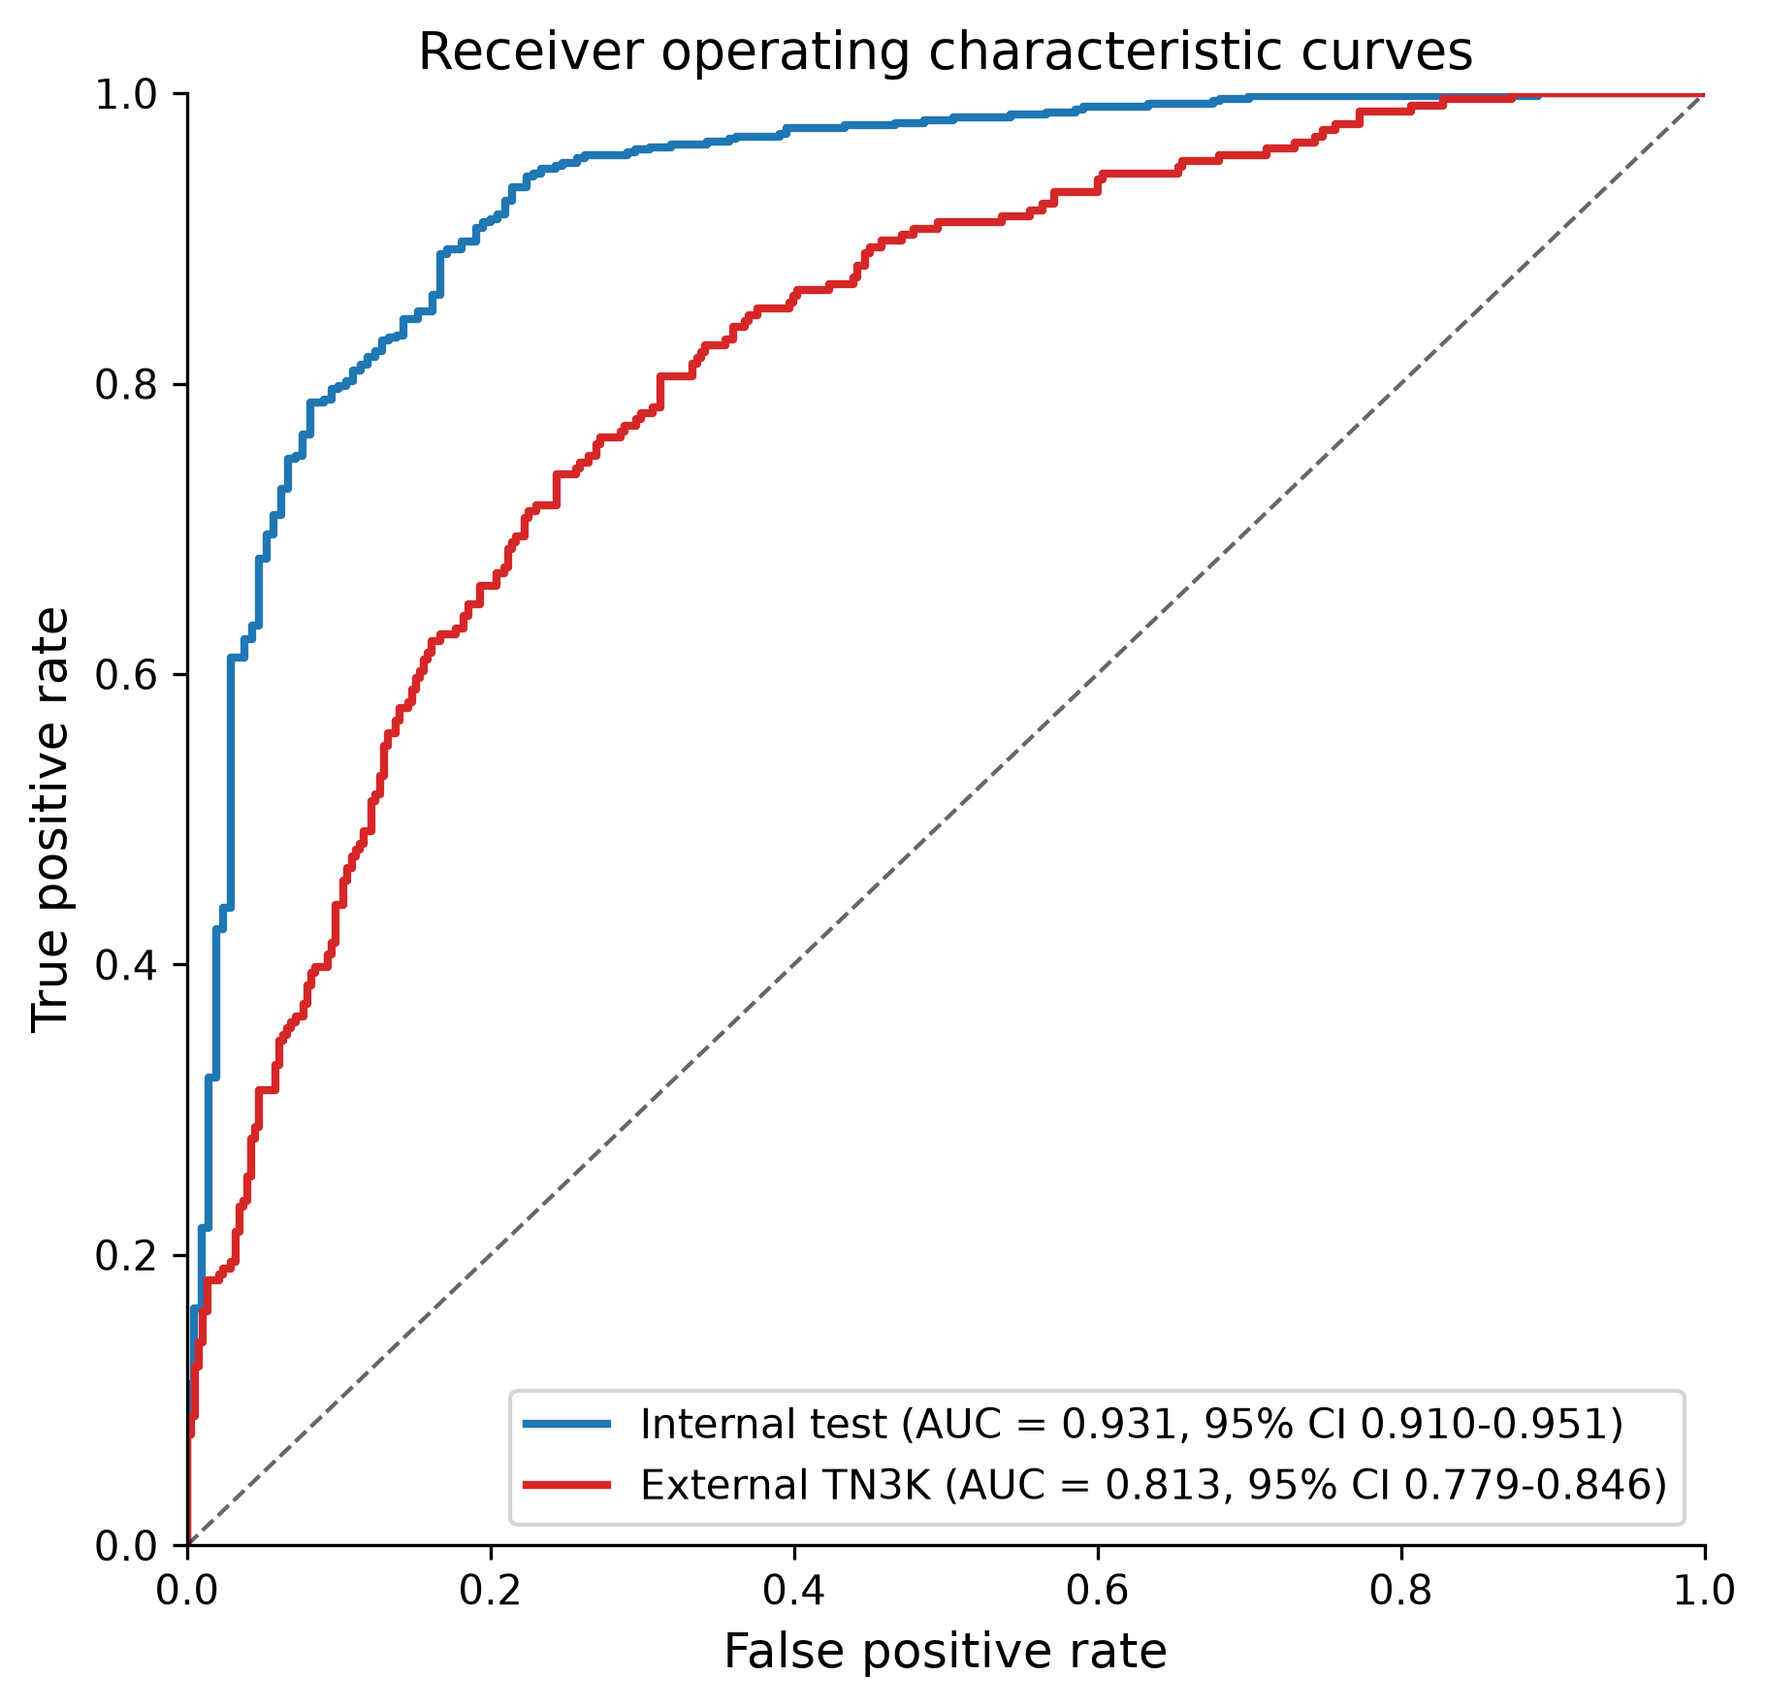
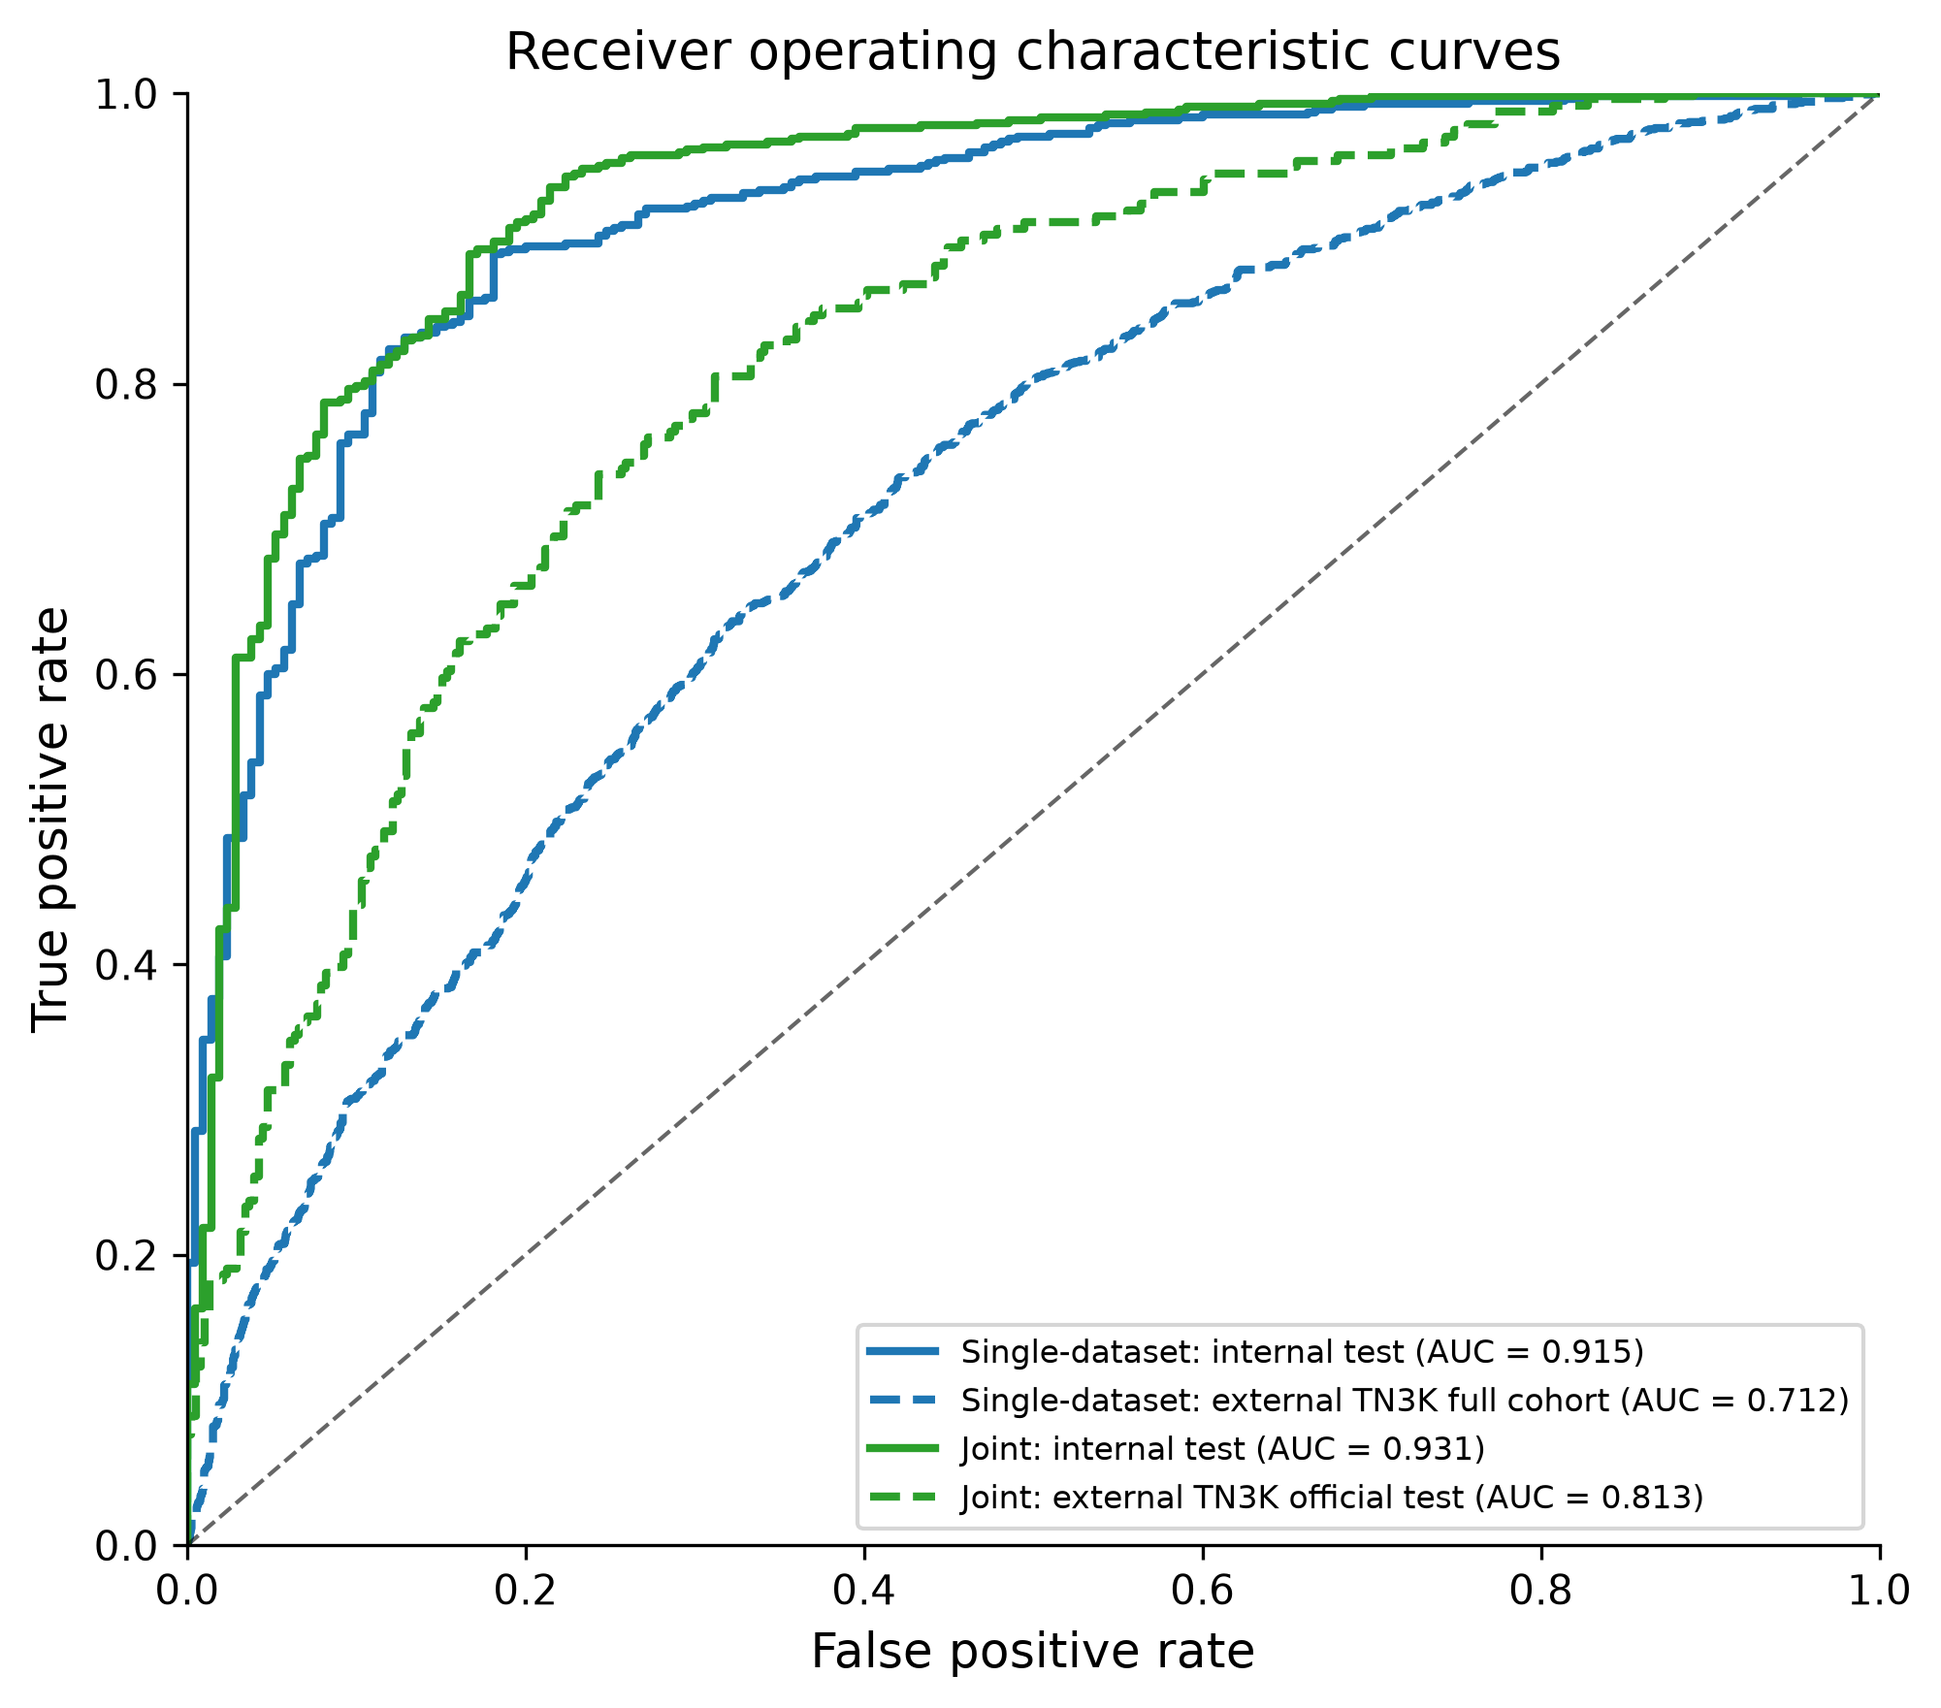
Add single-dataset full-TN3K ROC curve to Fig 2 and single-vs-joint external DCA to Fig 3; report fixed-0.5 net benefit (0.062->0.129 on TN3K official test)

diff --git a/paper/scripts/plot_figures.py b/paper/scripts/plot_figures.py
@@ -98,35 +98,49 @@ def dca_refs(pt, pos_rate):
 
 def main():
     device = get_device()
-    # Joint 模型（TN5000+TN3K，H1 修复后重跑 2026-08-10）
-    # 注：image/best.pt 是 ThyroidXL image-only（fig5-7/Table 3 用），joint 模型在备份目录
-    weights = PROJ / "checkpoints" / "thyroid" / "image_backup" / "best_joint_20260810_fixed.pt"
-    model = load_model(weights).to(device)
-    print("model loaded")
+    # Single-dataset (TN5000-only) and joint (TN5000 + TN3K train) models, seed 42
+    single_weights = PROJ / "checkpoints" / "thyroid" / "single_tn3k_eval" / "best.pt"
+    joint_weights = PROJ / "checkpoints" / "thyroid" / "_pre_seedretrain_backup" / "best_joint_seed42_fixed.pt"
+    single = load_model(single_weights).to(device)
+    joint = load_model(joint_weights).to(device)
+    print("models loaded")
 
     ds_in = ThyroidDataset(str(PROJ / "data" / "thyroid_tn5000test"), split="test",
                            image_size=224, mock=False, split_by_group=True, seed=42)
-    ds_ext = ThyroidDataset(str(PROJ / "data" / "thyroid_tn3ktest"), split="test",
-                            image_size=224, mock=False, split_by_group=True, seed=42)
-    p_in, y_in = predict(model, ds_in, device)
-    p_ext, y_ext = predict(model, ds_ext, device)
-    print(f"internal n={len(y_in)} (pos {y_in.mean():.3f}), external n={len(y_ext)} (pos {y_ext.mean():.3f})")
+    ds_t3k_test = ThyroidDataset(str(PROJ / "data" / "thyroid_tn3ktest"), split="test",
+                                 image_size=224, mock=False, split_by_group=True, seed=42)
+    ds_t3k_full = ThyroidDataset(str(PROJ / "data" / "thyroid" / "tn3k"), split="all",
+                                 image_size=224, mock=False, split_by_group=True, seed=42)
+    p_s_in, y_s_in = predict(single, ds_in, device)
+    p_s_ext, y_s_ext = predict(single, ds_t3k_test, device)
+    p_s_full, y_s_full = predict(single, ds_t3k_full, device)
+    p_j_in, y_j_in = predict(joint, ds_in, device)
+    p_j_ext, y_j_ext = predict(joint, ds_t3k_test, device)
+    print(f"single: internal n={len(y_s_in)} (pos {y_s_in.mean():.3f}), "
+          f"TN3K official n={len(y_s_ext)} (pos {y_s_ext.mean():.3f}), "
+          f"TN3K full n={len(y_s_full)} (pos {y_s_full.mean():.3f})")
+    print(f"joint:  internal n={len(y_j_in)} (pos {y_j_in.mean():.3f}), "
+          f"TN3K official n={len(y_j_ext)} (pos {y_j_ext.mean():.3f})")
 
-    # ---- Fig 2: ROC overlay ----
-    fpr1, tpr1, _ = roc_curve(y_in, p_in)
-    auc1 = sk_auc(fpr1, tpr1)
-    fpr2, tpr2, _ = roc_curve(y_ext, p_ext)
-    auc2 = sk_auc(fpr2, tpr2)
-    fig, ax = plt.subplots(figsize=(6.2, 6))
-    ax.plot(fpr1, tpr1, lw=2, color="#1f77b4",
-            label=f"Internal test (AUC = {auc1:.3f}, 95% CI 0.910-0.951)")
-    ax.plot(fpr2, tpr2, lw=2, color="#d62728",
-            label=f"External TN3K (AUC = {auc2:.3f}, 95% CI 0.779-0.846)")
+    # ---- Fig 2: ROC overlay (domain-shift drop + joint recovery) ----
+    fpr_si, tpr_si, _ = roc_curve(y_s_in, p_s_in)
+    fpr_sf, tpr_sf, _ = roc_curve(y_s_full, p_s_full)
+    fpr_ji, tpr_ji, _ = roc_curve(y_j_in, p_j_in)
+    fpr_je, tpr_je, _ = roc_curve(y_j_ext, p_j_ext)
+    fig, ax = plt.subplots(figsize=(6.8, 6))
+    ax.plot(fpr_si, tpr_si, lw=2, color="#1f77b4",
+            label="Single-dataset: internal test (AUC = 0.915)")
+    ax.plot(fpr_sf, tpr_sf, lw=2, ls="--", color="#1f77b4",
+            label="Single-dataset: external TN3K full cohort (AUC = 0.712)")
+    ax.plot(fpr_ji, tpr_ji, lw=2, color="#2ca02c",
+            label="Joint: internal test (AUC = 0.931)")
+    ax.plot(fpr_je, tpr_je, lw=2, ls="--", color="#2ca02c",
+            label="Joint: external TN3K official test (AUC = 0.813)")
     ax.plot([0, 1], [0, 1], "k--", lw=1, alpha=0.6)
     ax.set_xlabel("False positive rate", fontsize=12)
     ax.set_ylabel("True positive rate", fontsize=12)
     ax.set_title("Receiver operating characteristic curves", fontsize=13)
-    ax.legend(loc="lower right", fontsize=10)
+    ax.legend(loc="lower right", fontsize=8)
     ax.set_xlim(0, 1)
     ax.set_ylim(0, 1)
     fig.tight_layout()
@@ -134,9 +148,9 @@ def main():
     plt.close(fig)
     print("fig2 saved")
 
-    # ---- Fig 3: calibration (a) + DCA (b) 合成图 ----
-    mp1, my1, ece1 = reliability_curve(y_in, p_in)
-    mp2, my2, ece2 = reliability_curve(y_ext, p_ext)
+    # ---- Fig 3: calibration (a) + DCA (b) ----
+    mp1, my1, ece1 = reliability_curve(y_j_in, p_j_in)
+    mp2, my2, ece2 = reliability_curve(y_j_ext, p_j_ext)
 
     def dca(y, p):
         pts = np.arange(0.05, 0.96, 0.05)
@@ -147,23 +161,25 @@ def main():
             nbs.append(tp / len(y) - fp / len(y) * (t / (1 - t)))
         return pts, np.array(nbs)
 
-    pt1, nb1 = dca(y_in, p_in)
-    pt2, nb2 = dca(y_ext, p_ext)
+    pt_ji, nb_ji = dca(y_j_in, p_j_in)
+    pt_je, nb_je = dca(y_j_ext, p_j_ext)
+    pt_se, nb_se = dca(y_s_ext, p_s_ext)
 
     fig, (ax1, ax2) = plt.subplots(1, 2, figsize=(12, 5.2))
-    # (a) calibration
     ax1.plot([0, 1], [0, 1], "k--", lw=1.2, label="Perfect calibration")
     ax1.plot(mp1, my1, "o-", color="#1f77b4", lw=2, ms=6,
-             label=f"Internal (ECE = {ece1:.3f})")
+             label=f"Joint internal (ECE = {ece1:.3f})")
     ax1.plot(mp2, my2, "s-", color="#d62728", lw=2, ms=6,
-             label=f"External (ECE = {ece2:.3f})")
+             label=f"Joint external TN3K (ECE = {ece2:.3f})")
     ax1.set_xlabel("Predicted probability", fontsize=12)
     ax1.set_ylabel("Observed frequency", fontsize=12)
     ax1.set_title("(a) Calibration", fontsize=13)
     ax1.legend(loc="upper left", fontsize=9)
-    # (b) DCA
-    ax2.plot(pt1, nb1, lw=2, color="#1f77b4", label="Internal test")
-    ax2.plot(pt2, nb2, lw=2, color="#d62728", label="External TN3K")
+    ax2.plot(pt_ji, nb_ji, lw=2, color="#1f77b4", label="Joint: internal test")
+    ax2.plot(pt_je, nb_je, lw=2, color="#d62728",
+             label="Joint: external TN3K official test")
+    ax2.plot(pt_se, nb_se, lw=2, ls="--", color="#ff7f0e",
+             label="Single-dataset: external TN3K official test")
     ax2.plot([0, 1], [0, 0], "k:", lw=1, label="Treat none")
     ax2.set_xlabel("Threshold probability", fontsize=12)
     ax2.set_ylabel("Net benefit", fontsize=12)
@@ -175,11 +191,11 @@ def main():
     plt.close(fig)
     print("fig3 (calibration + DCA) saved")
 
-    # ---- Fig 4: confusion matrices ----
+    # ---- Fig 4: confusion matrices (joint model) ----
     fig, axes = plt.subplots(1, 2, figsize=(10, 4.2))
     for ax, (y, p, title) in zip(
         axes,
-        [(y_in, p_in, "Internal test"), (y_ext, p_ext, "External TN3K")],
+        [(y_j_in, p_j_in, "Internal test"), (y_j_ext, p_j_ext, "External TN3K")],
     ):
         yp = (p >= 0.5).astype(int)
         cm = confusion_matrix(y, yp)

diff --git a/paper/output/doc/manuscript_zh.md b/paper/output/doc/manuscript_zh.md
@@ -105,7 +105,7 @@ ThyroidXL 数据集（Duong 等，MICCAI 2025）[13] 包含在越南国家内分
 
 ### 3.4 联合多数据集训练改善内部与外部性能
 
-将 TN5000 与 TN3K 训练子集合并（合并清单共 7,129 张图像：6,379 张训练加 750 张验证）进行联合训练，内部判别力得到适度提升，外部性能则显著改善。联合模型验证 AUC 达 0.932（95% CI 0.910–0.953），独立 TN5000 测试 AUC 为 0.931（95% CI 0.910–0.951），灵敏度 94.8%、特异度 75.7%（期望校准误差 0.020）。在官方 TN3K 测试集（n = 614）上，外部 AUC 由 0.729 提升至 0.813（95% CI 0.779–0.846；匹配 Δ = +0.085），灵敏度 67.4%、特异度 78.8%、期望校准误差 0.050（表 2；图 2–4）。可见，联合训练在外部 TN3K 队列上恢复了约一半的观测 AUC 损失。需要说明的是，官方 TN3K 测试集属于目标域保留评估：TN3K 训练图像已参与联合模型训练；相比之下，Thy-Wise 从未提供训练数据，是完全未见的队列。
+将 TN5000 与 TN3K 训练子集合并（合并清单共 7,129 张图像：6,379 张训练加 750 张验证）进行联合训练，内部判别力得到适度提升，外部性能则显著改善。联合模型验证 AUC 达 0.932（95% CI 0.910–0.953），独立 TN5000 测试 AUC 为 0.931（95% CI 0.910–0.951），灵敏度 94.8%、特异度 75.7%（期望校准误差 0.020）。在官方 TN3K 测试集（n = 614）上，外部 AUC 由 0.729 提升至 0.813（95% CI 0.779–0.846；匹配 Δ = +0.085），灵敏度 67.4%、特异度 78.8%、期望校准误差 0.050（表 2；图 2–4）。可见，联合训练在外部 TN3K 队列上恢复了约一半的观测 AUC 损失。需要说明的是，官方 TN3K 测试集属于目标域保留评估：TN3K 训练图像已参与联合模型训练；相比之下，Thy-Wise 从未提供训练数据，是完全未见的队列。在固定 0.5 决策阈值下，TN3K 官方测试集上的净获益由单数据集的 0.062 提升至联合模型的 0.129（"不治疗任何患者"为 0.000；图 3b），表明 AUC 改善在默认工作点转化为了临床上可感知的获益。
 
 这一增益还传递到了第二个完全独立的队列。应用于 Thy-Wise（来自第三家机构的 3,954 个病理确诊结节）时，单数据集（仅 TN5000）模型的结节级 AUC 为 0.608（95% CI 0.589–0.628），联合训练将其提升至 0.710（95% CI 0.693–0.727；Δ = +0.102），期望校准误差 0.057。计算指标前，先将结节内的图像级概率取平均。图像级统计明显更低（单数据集 AUC 0.540；联合 AUC 0.607；补充表 S1b），这是因为每个结节包含多张部分冗余的帧；因此采用结节级聚合作为主要外部估计。联合训练在 Thy-Wise 上的增益（+0.102）与 TN3K 上的增益（+0.085）相当，表明多数据集训练的优势可传递到未见分布。
 
@@ -243,9 +243,9 @@ ACR：美国放射学会；AUC：受试者工作特征曲线下面积；AUPRC：
 
 **图 1.** 研究流程图。四个公共数据集的数据采集、患者级划分、模型训练与评估流程。
 
-**图 2.** 联合多数据集模型（TN5000 + TN3K 训练）在内部 TN5000 测试集和外部 TN3K 官方测试集上的受试者工作特征（ROC）曲线，显示跨数据集域漂移。
+**图 2.** 单数据集（仅 TN5000）与联合多数据集（TN5000 + TN3K 训练）模型的受试者工作特征（ROC）曲线。内部 TN5000 测试集（单数据集 0.915、联合 0.931）与外部 TN3K 队列（单数据集，完整队列 0.712；联合，官方测试 0.813）同时展示跨数据集性能下降及其由多数据集训练带来的部分恢复。
 
-**图 3.** 联合模型在内部与外部测试集上的校准可靠性图（a）和决策曲线（b）。ECE = 期望校准误差。
+**图 3.** （a）联合模型在内部 TN5000 测试集与外部 TN3K 官方测试集上的校准可靠性图。（b）联合模型在内部 TN5000 测试集与外部 TN3K 官方测试集上的决策曲线，以及单数据集模型在外部 TN3K 官方测试集上的决策曲线，均与"不治疗任何患者"策略比较。ECE = 期望校准误差。
 
 **图 4.** 联合模型在内部 TN5000 测试集（左）和外部 TN3K 测试集（右）上、固定 0.5 决策阈值下的混淆矩阵。
 

diff --git a/paper/output/doc/manuscript.md b/paper/output/doc/manuscript.md
@@ -326,7 +326,7 @@ Figures 2–4). Joint training therefore recovered approximately half of the
 observed AUC loss on the external TN3K cohort. Note that the official TN3K
 test set is a target-domain held-out evaluation, because TN3K training images
 contributed to the joint model; Thy-Wise, by contrast, never contributed
-training data and is the completely unseen cohort.
+training data and is the completely unseen cohort. At the fixed 0.5 decision threshold, net benefit on the TN3K official test increased from 0.062 (single-dataset) to 0.129 (joint), compared with 0.000 for treating none (Figure 3b), indicating that the AUC improvement translated into a clinically meaningful gain at the default operating point.
 
 The gain transferred to a second, fully independent cohort. Applied to
 Thy-Wise (3,954 pathology-confirmed nodules from a third institution), the
@@ -763,13 +763,18 @@ Thyroid Imaging Reporting and Data System.
 **Figure 1.** Study flow diagram. Data acquisition, patient-level split,
 model training and evaluation pipeline for the four public datasets.
 
-**Figure 2.** Receiver operating characteristic (ROC) curves of the joint
-multi-dataset model (TN5000 + TN3K training) on the internal TN5000 test set
-and the external TN3K official test set, showing cross-dataset domain shift.
+**Figure 2.** Receiver operating characteristic (ROC) curves of the
+single-dataset (TN5000-only) and joint multi-dataset (TN5000 + TN3K training)
+models. Internal TN5000 test set (single 0.915, joint 0.931) and external TN3K
+cohort (single, full cohort 0.712; joint, official test 0.813) illustrate both
+the cross-dataset drop and its partial recovery from multi-dataset training.
 
-**Figure 3.** Calibration reliability plots (a) and decision curves (b) of the
-joint model on the internal and external test sets. ECE = expected calibration
-error.
+**Figure 3.** (a) Calibration reliability plots of the joint model on the
+internal TN5000 test set and the external TN3K official test set. (b) Decision
+curves of the joint model on the internal TN5000 test set and the external TN3K
+official test set, and of the single-dataset model on the external TN3K
+official test set, compared with the treat-none strategy. ECE = expected
+calibration error.
 
 **Figure 4.** Confusion matrices of the joint model on the internal TN5000
 test set (left) and external TN3K test set (right) at the fixed 0.5 decision

diff --git a/REPRODUCIBILITY.md b/REPRODUCIBILITY.md
@@ -124,7 +124,9 @@ python eval_thywise.py --weights <weights> --data_root data/thyroid/thywise   # 
 | Joint: Thy-Wise | same | `eval_thywise.py` | `paper/output/repro/trackA_joint_thywise.json` |
 
 Δ rows in Table 2 are computed from the unrounded values in the JSON files
-(e.g., TN3K ΔAUC = 0.8135 − 0.7285 = +0.085).
+(e.g., TN3K ΔAUC = 0.8135 − 0.7285 = +0.085). Net benefit at the fixed 0.5
+threshold (from the decision_curve arrays): TN3K official test 0.062 (single) →
+0.129 (joint); internal test 0.583 (single) → 0.615 (joint).
 
 ## 6. Table 3 (ThyroidXL ablation) + ensemble + paired test
 
@@ -201,7 +203,7 @@ python paper/scripts/eval_seed_retrain.py --only all
 ## 9. Figures
 
 ```bash
-python paper/scripts/plot_figures.py                # Figs 2–4 (track A ROC/calibration/DCA/confusion)
+python paper/scripts/plot_figures.py                # Figs 2–4 (track A ROC/calibration/DCA/confusion; Fig 2 adds the single-dataset full-TN3K curve; Fig 3b adds single-vs-joint external DCA)
 python paper/scripts/plot_flow_diagram.py           # Fig 1
 python paper/scripts/plot_thyroidxl_fusion.py       # Figs 5–8 (ablation)
 python paper/scripts/subgroup_analysis.py           # Fig 9
